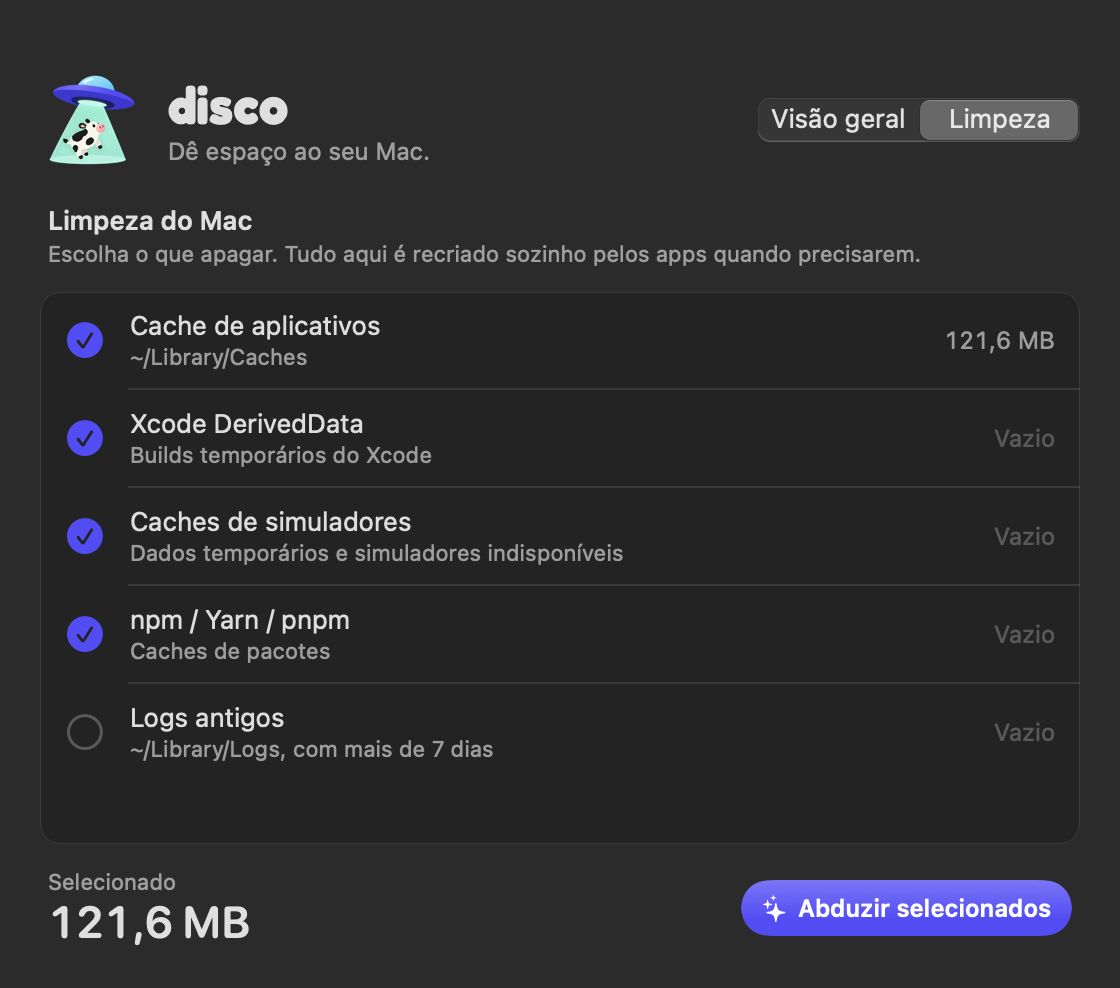
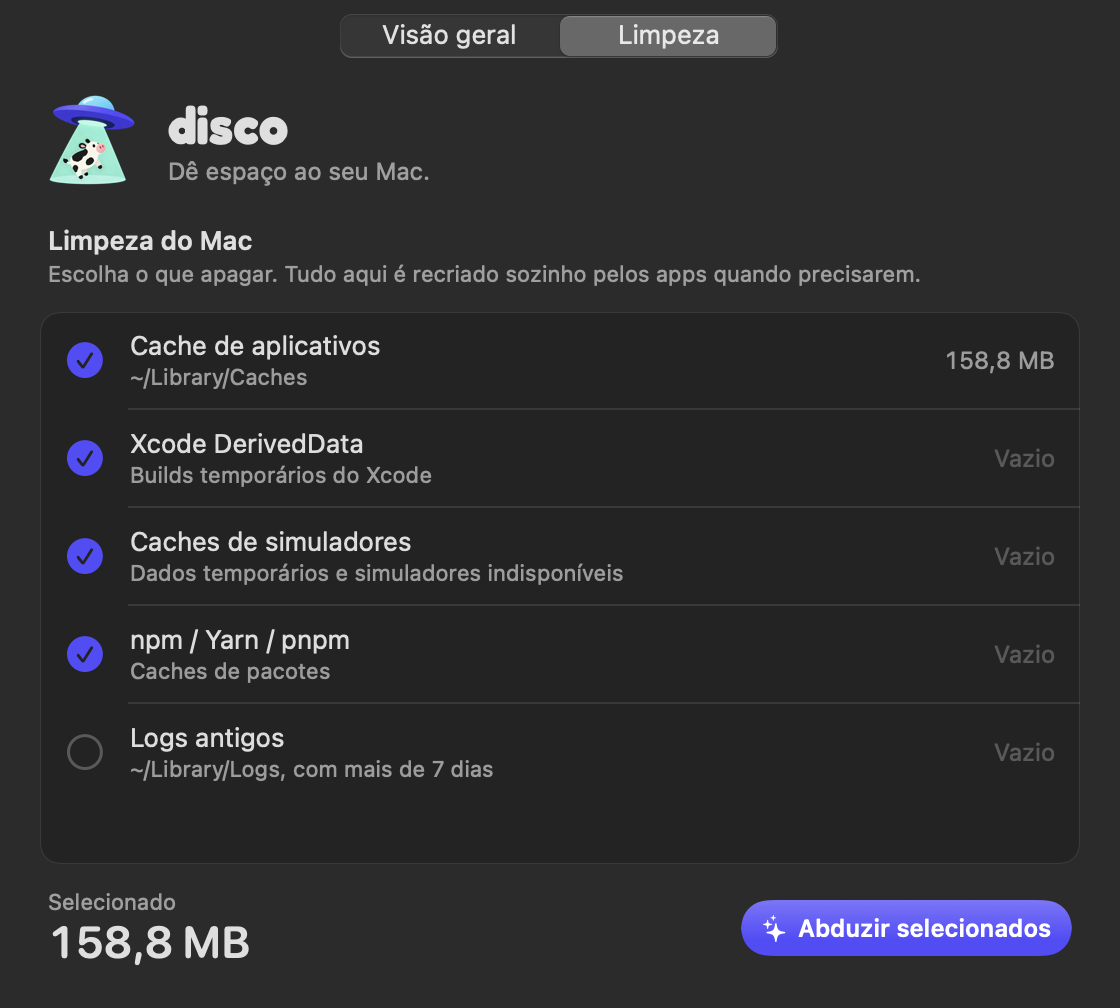
ⓧ sempre visível; abas com NSSegmentedControl na barra de título; script de instalação

diff --git a/App/MainWindow.swift b/App/MainWindow.swift
@@ -128,9 +128,14 @@ struct MainView: View {
         }
         .controlSize(.small)
         .padding(.horizontal, 20)
-        .padding(.top, 34)  // abaixo dos botões da janela
+        .padding(.top, 44)  // abaixo da barra de título com as abas
         .padding(.bottom, 20)
         .frame(width: 560)
+        .overlay(alignment: .top) {
+            TabSegments(selection: $state.tab)
+                .frame(width: 220)
+                .padding(.top, 7)  // alinhado com os botões da janela
+        }
         .onChange(of: state.tab) { _, tab in
             if tab == .clean { cleanModel.scan() }
         }
@@ -149,13 +154,6 @@ struct MainView: View {
                     .foregroundStyle(.secondary)
             }
             Spacer()
-            Picker("", selection: $state.tab) {
-                ForEach(WindowTab.allCases, id: \.self) { Text($0.rawValue).tag($0) }
-            }
-            .pickerStyle(.segmented)
-            .labelsHidden()
-            .controlSize(.regular)
-            .fixedSize()
         }
     }
 
@@ -204,6 +202,40 @@ struct MainView: View {
                 .clipShape(RoundedRectangle(cornerRadius: 10, style: .continuous))
                 .groupBox()
             }
+        }
+    }
+}
+
+/// Controle segmentado nativo do macOS (HIG): segmentos de mesma largura, um selecionado por vez.
+struct TabSegments: NSViewRepresentable {
+    @Binding var selection: WindowTab
+
+    func makeNSView(context: Context) -> NSSegmentedControl {
+        let control = NSSegmentedControl(
+            labels: WindowTab.allCases.map(\.rawValue),
+            trackingMode: .selectOne,
+            target: context.coordinator,
+            action: #selector(Coordinator.changed(_:))
+        )
+        control.segmentDistribution = .fillEqually
+        control.segmentStyle = .automatic
+        control.controlSize = .regular
+        return control
+    }
+
+    func updateNSView(_ control: NSSegmentedControl, context: Context) {
+        context.coordinator.selection = $selection
+        control.selectedSegment = WindowTab.allCases.firstIndex(of: selection) ?? 0
+    }
+
+    func makeCoordinator() -> Coordinator { Coordinator(selection: $selection) }
+
+    final class Coordinator: NSObject {
+        var selection: Binding<WindowTab>
+        init(selection: Binding<WindowTab>) { self.selection = selection }
+
+        @objc func changed(_ sender: NSSegmentedControl) {
+            selection.wrappedValue = WindowTab.allCases[sender.selectedSegment]
         }
     }
 }
@@ -393,11 +425,10 @@ struct AppRow: View {
             Button(action: onKill) {
                 Image(systemName: "xmark.circle.fill")
                     .font(.system(size: 14))
-                    .foregroundStyle(.secondary)
+                    .foregroundStyle(hovering ? .secondary : .tertiary)
             }
             .buttonStyle(.plain)
             .help("Forçar encerrar \(app.name)")
-            .opacity(hovering ? 1 : 0)
         }
         .padding(.horizontal, 10)
         .frame(height: 36)

diff --git a/README.md b/README.md
@@ -131,6 +131,7 @@ Requer Xcode 15+ e [XcodeGen](https://github.com/yonaskolb/XcodeGen) (`brew inst
    xcodebuild -project Disco.xcodeproj -scheme Disco -configuration Release -derivedDataPath build build
    cp -R build/Build/Products/Release/Disco.app /Applications/
    ```
+   Ou use `./scripts/install.sh`, que faz tudo isso e garante que o macOS use o widget de `/Applications` (o Xcode também registra a cópia de `build/`).
 
 ## Identidade
 
